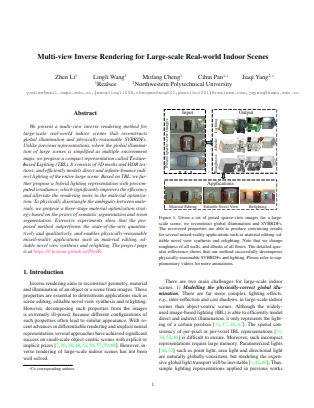
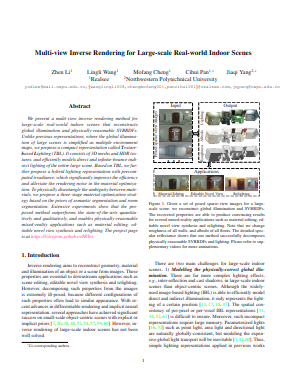
update captions

diff --git a/index.html b/index.html
@@ -144,12 +144,17 @@
 
         <div class="row">
             <div class="col-md-8 col-md-offset-2">
+                <hr style="margin-top: 0px;">
+                <img src="files/fig1.png" class="img-responsive" alt="overview"><br>
+                <p class="text-justify">
+                    Figure 1. Given a set of posed sparse-view images for a large-scale scene, we reconstruct global illumination and SVBRDFs. The recovered properties are able to produce convincing results for several mixed-reality applications such as material editing, editable novel view synthesis and relighting. Note that we change roughness of all walls, and albedo of all floors. The detailed specular reflectance shows that our method successfully decomposes physically-reasonable SVBRDFs and lighting. Please refer to supplementary videos for more animations.
+                </p>
+
                 <h3>
                     Abstract
                 </h3>
-                <hr style="margin-top: 0px;">
-                <img src="files/fig1.png" class="img-responsive" alt="overview"><br>
-                <!-- <iframe src="./files/framework_1.pdf" width="600" height="400"></iframe> -->
+                
+                    <!-- <iframe src="./files/framework_1.pdf" width="600" height="400"></iframe> -->
                 <hr style="margin-top: 0px;">
                 <p class="text-justify">
                     We present a multi-view inverse rendering method for large-scale real-world indoor scenes that reconstructs global illumination and physically-reasonable SVBRDFs. Unlike previous representations, where the global illumination of large scenes is simplified as multiple environment maps, we propose a compact representation called Texture-based Lighting (TBL). It consists of 3D meshs and HDR textures, and efficiently models direct and infinite-bounce indirect lighting of the entire large scene. Based on TBL, we further propose a hybrid lighting representation with precomputed irradiance, which significantly improves the efficiency and alleviate the rendering noise in the material optimization. To physically disentangle the ambiguity between materials, we propose a three-stage material optimization strategy based on the priors of semantic segmentation and room segmentation. Extensive experiments show that the proposed method outperforms the state-of-the-arts quantitatively and qualitatively, and enables physically-reasonable mixed-reality applications such as material editing, editable novel view synthesis and relighting.
@@ -165,6 +170,9 @@
                 <hr style="margin-top: 0px;">
                 <img src="files/overview.png" class="img-responsive" alt="overview"><br>
                 <!-- <iframe src="./files/framework_1.pdf" width="600" height="400"></iframe> -->
+                <p class="text-justify"></p>
+                    Figure 2. Overview of our inverse rendering pipeline. Given sparse calibrated HDR images for a large-scale scene, we reconstruct the geometry and HDR textures as our lighting representation. PBR material textures of the scene, including albedo and roughness, are optimized by differentiable rendering (DR). The ambiguity between materials is disentangled by the semantics prior and the room segmentation prior. Gradient flows in Green Background.
+                </p>
             </div>
         </div>
 
